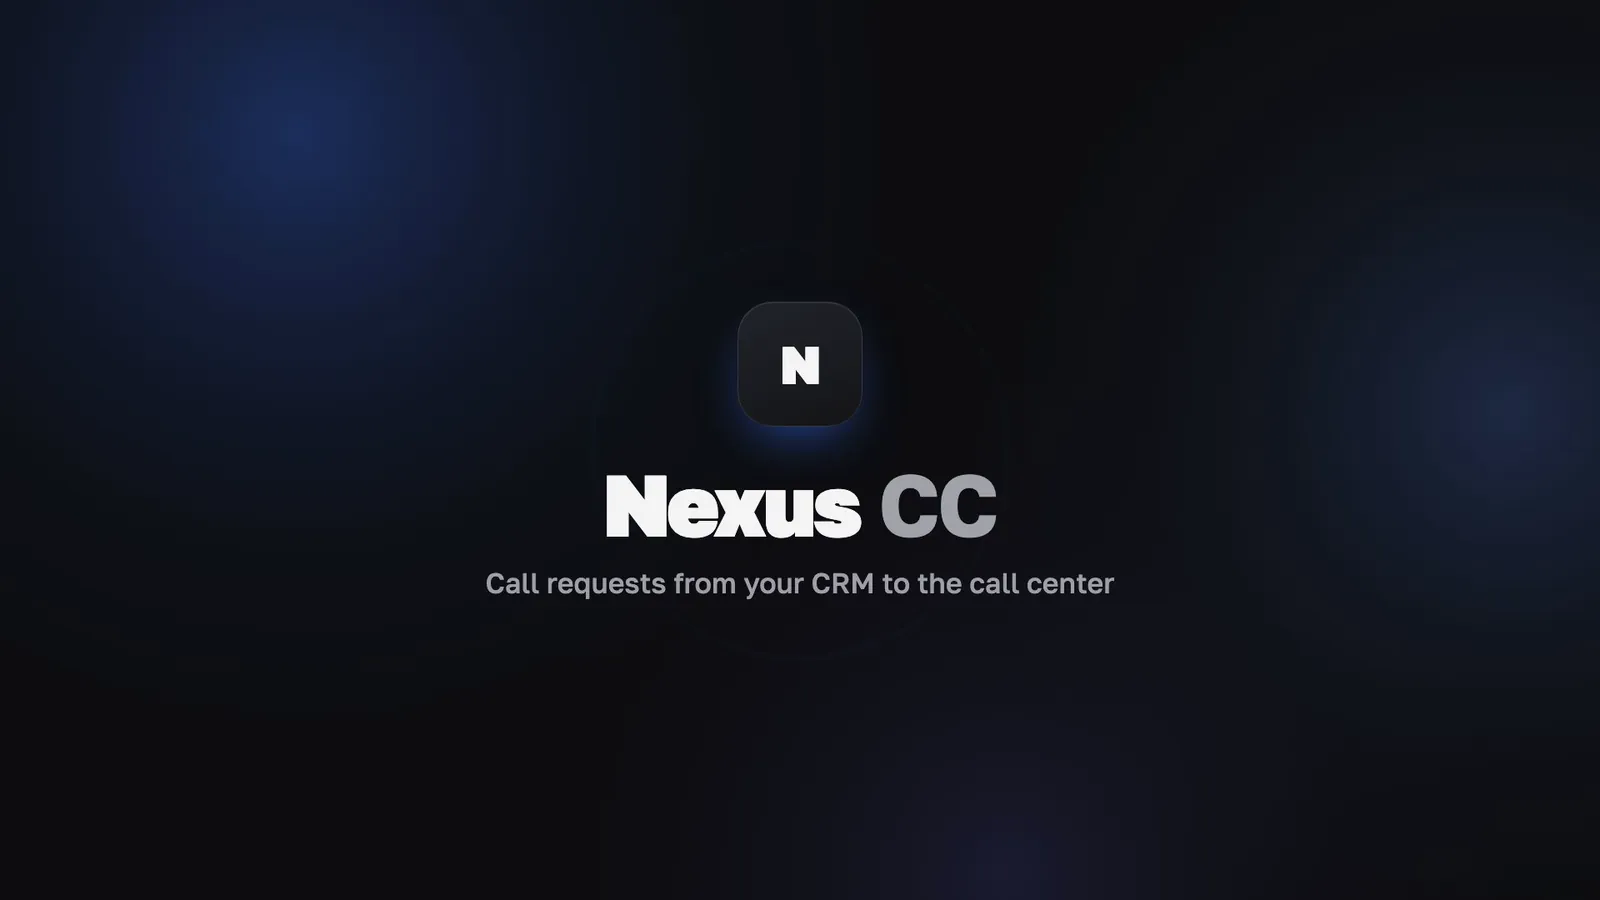
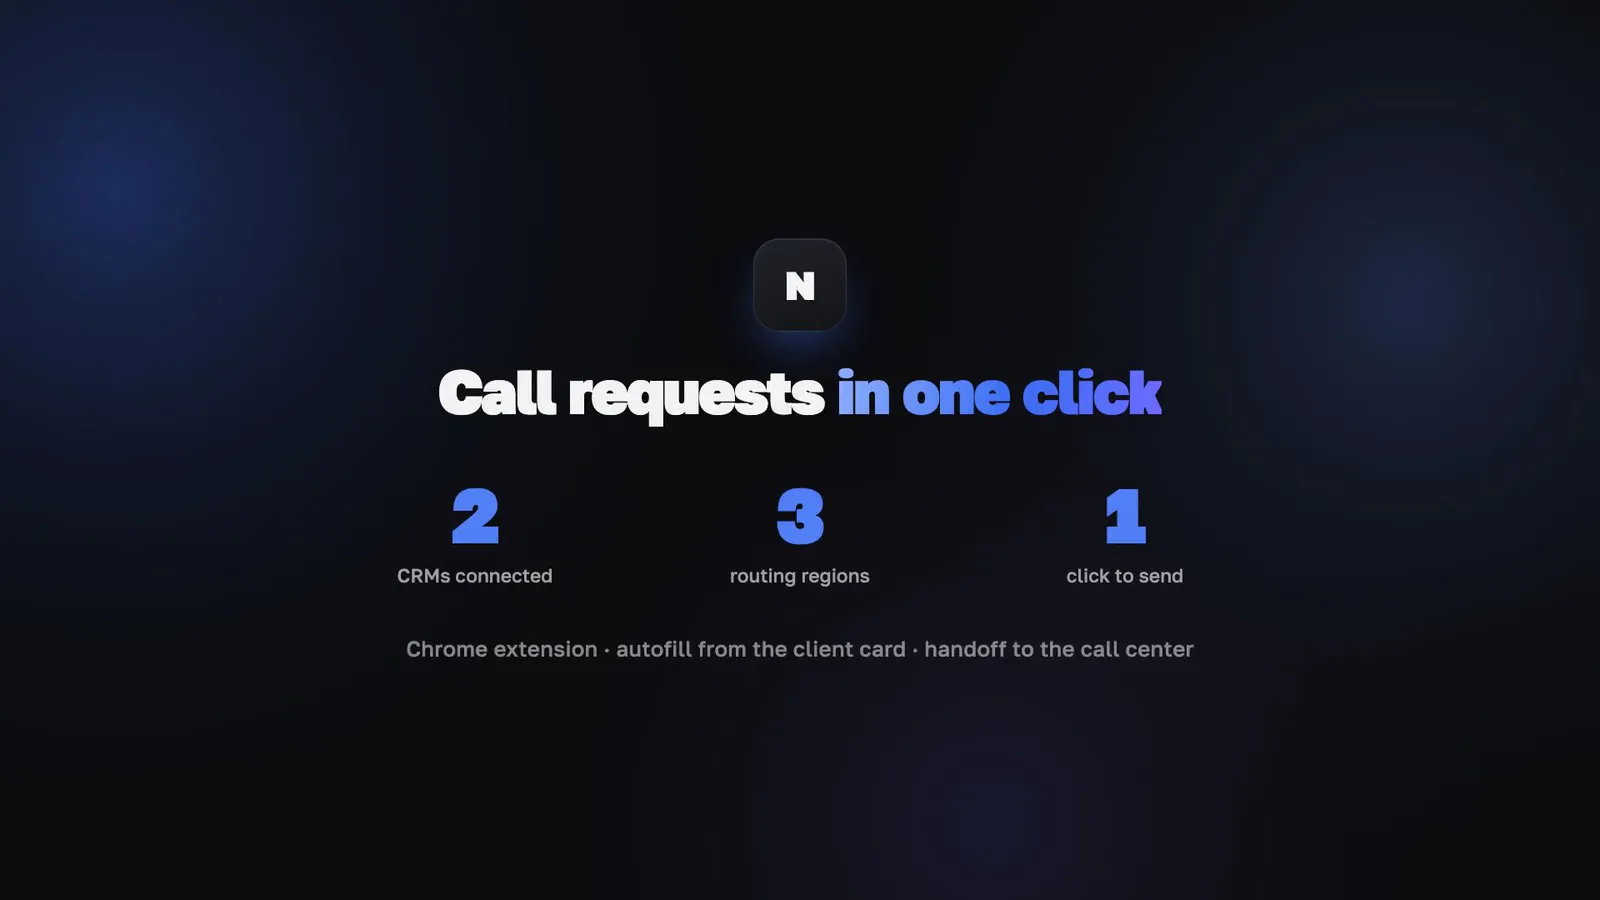
fix: обложки видео «Колл-центр» (RU/EN) — кадр без названия «Nexus КЦ»

diff --git a/index.html b/index.html
@@ -801,7 +801,7 @@
 
     <article class="work work--rev">
       <div class="work-media">
-        <video class="work-video" data-v="kc" muted loop playsinline preload="none" poster="assets/video/kc-poster.webp?v=2" aria-label="Видеообзор расширения для колл-центра">
+        <video class="work-video" data-v="kc" muted loop playsinline preload="none" poster="assets/video/kc-poster.webp?v=3" aria-label="Видеообзор расширения для колл-центра">
           <source src="assets/video/kc.mp4?v=2" type="video/mp4">
         </video>
         <button class="work-play" type="button" aria-label="Воспроизвести видео">

diff --git a/en/index.html b/en/index.html
@@ -805,7 +805,7 @@
 
     <article class="work work--rev">
       <div class="work-media">
-        <video class="work-video" data-v="kc" muted loop playsinline preload="none" poster="/assets/video/kc-en-poster.webp" aria-label="Video overview of the call center extension">
+        <video class="work-video" data-v="kc" muted loop playsinline preload="none" poster="/assets/video/kc-en-poster.webp?v=2" aria-label="Video overview of the call center extension">
           <source src="/assets/video/kc-en.mp4" type="video/mp4">
         </video>
         <button class="work-play" type="button" aria-label="Play video">
